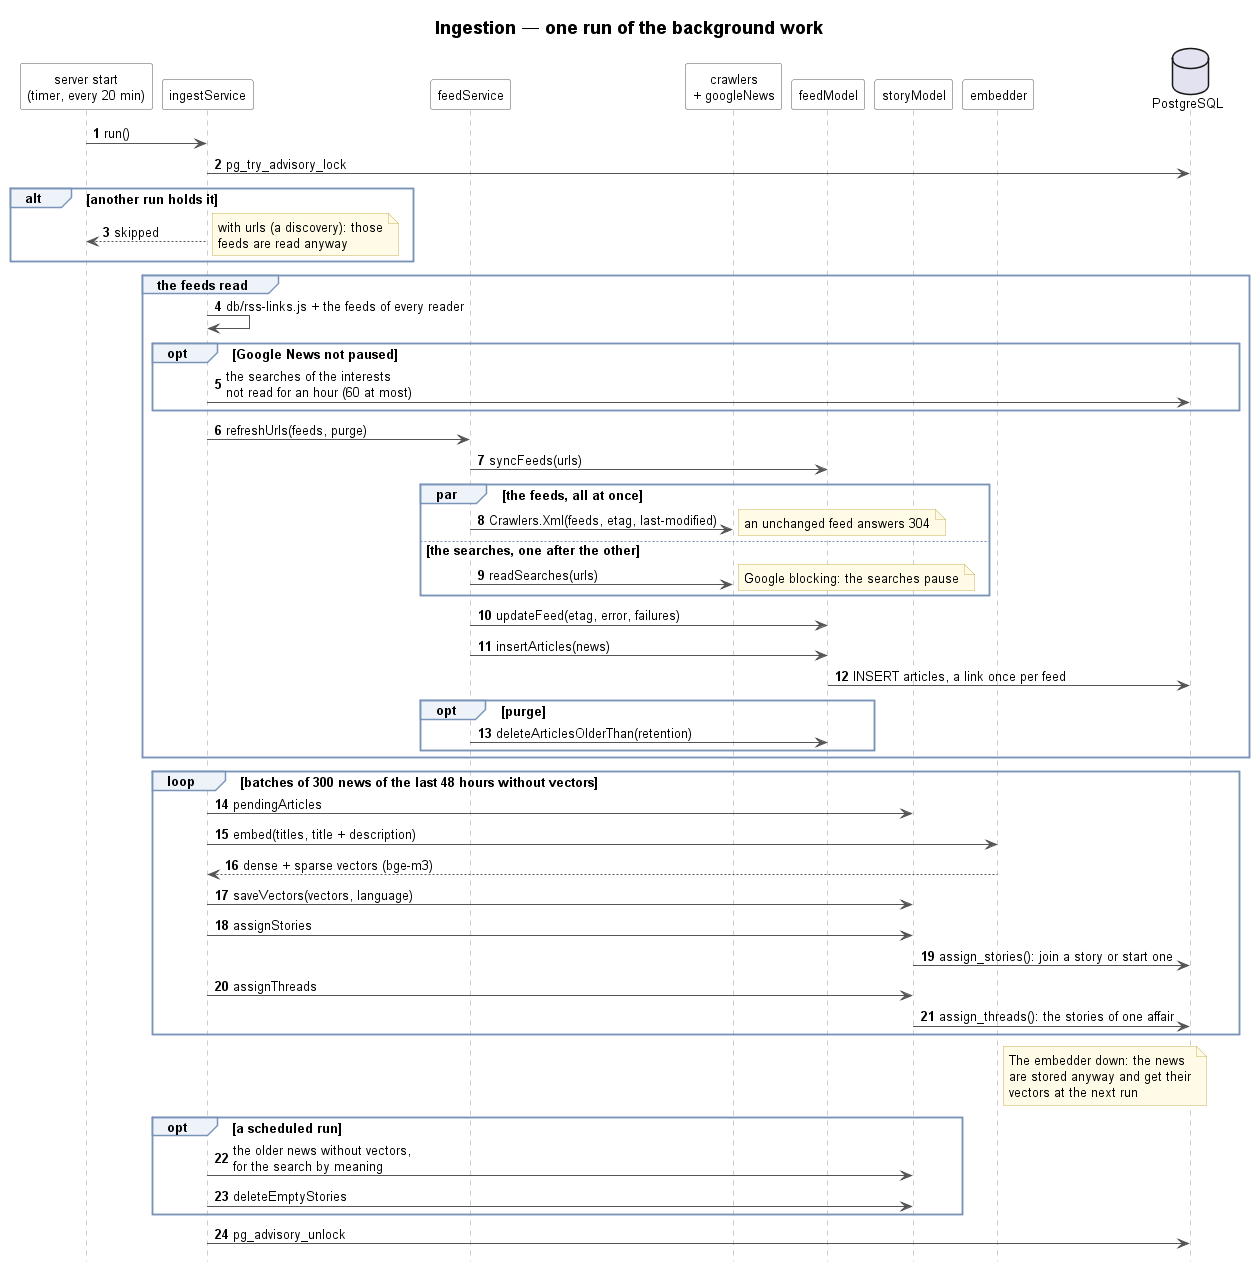
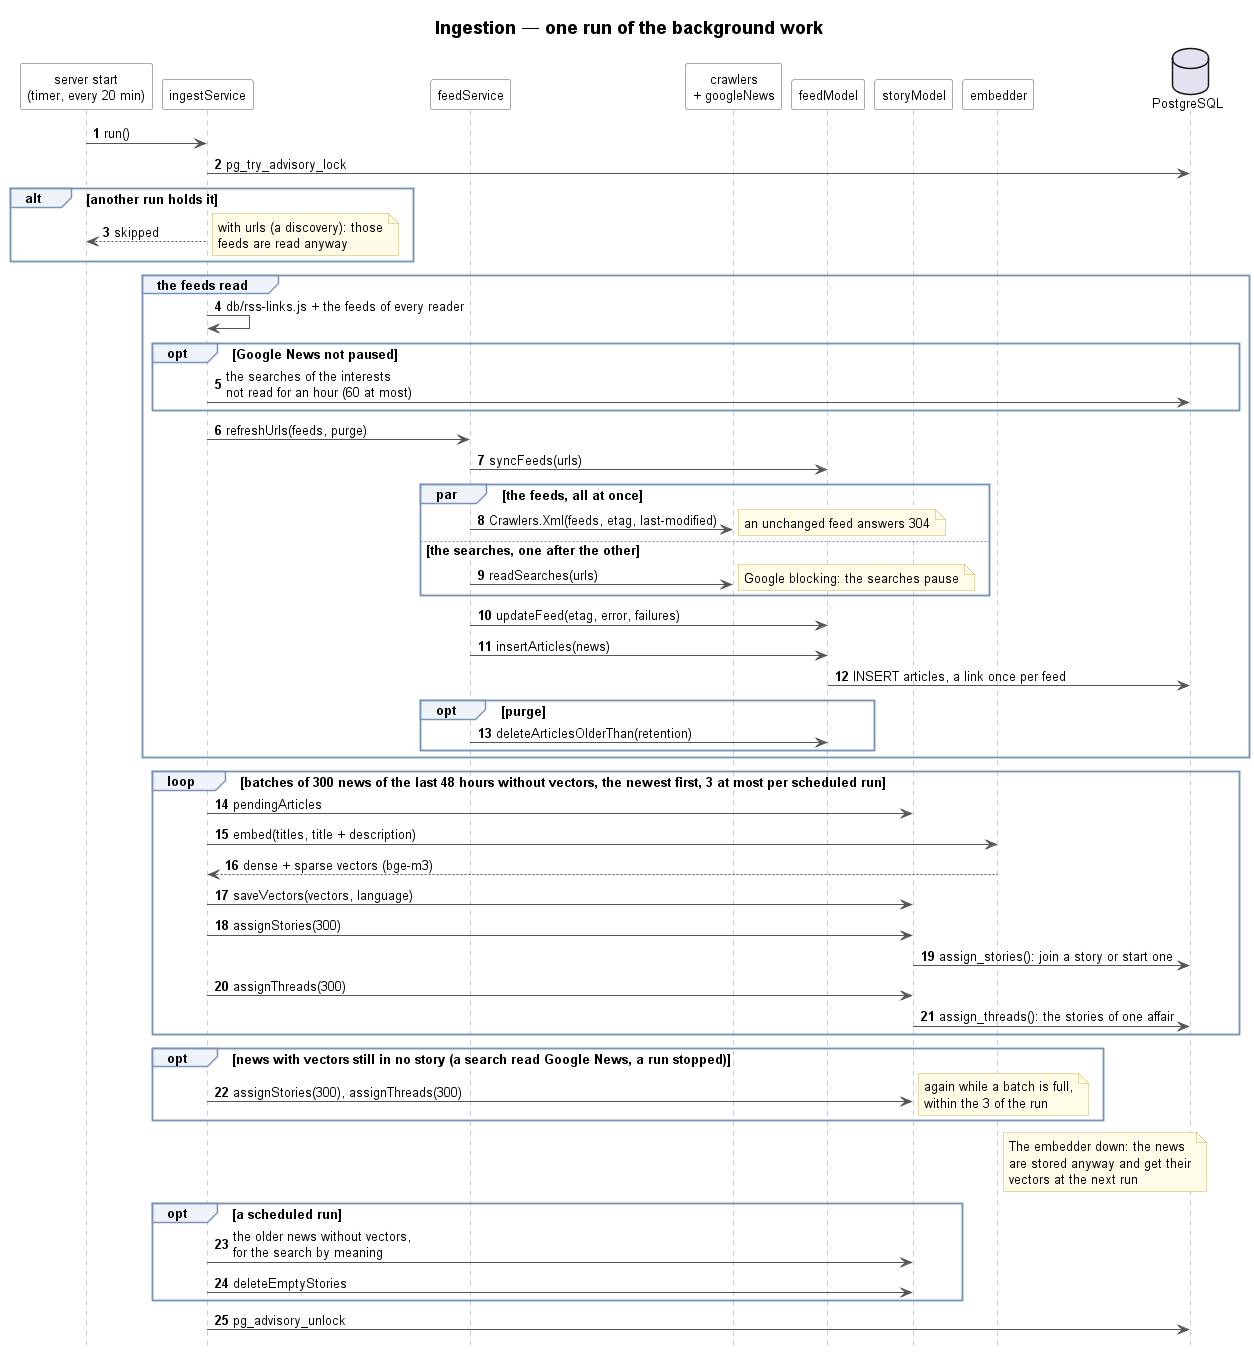
Group the news in batches, a few per run
assign_stories and assign_threads take at most a number of news or
stories per call, each call a transaction of its own. The ingestion
groups 300 at a time and a scheduled run stops after INGEST_BATCHES (3),
the rest left to the next run, which reads the feeds first. The 12 000
news of the first read of the directory, grouped in one call, held the
ingestion 2 h 10 with no feed read and nothing saved before the end.

The thread tests leave out the real stories waiting for a thread: they
judged them all, and every other test waited on their transaction.

diff --git a/services/ingest-service.js b/services/ingest-service.js
@@ -32,6 +32,12 @@ const MAX_EMBEDDED_PER_RUN = Number(process.env.INGEST_MAX_EMBEDDED) || 300;
 // retention; they join no story. After the news of the window, and this many batches at most per
 // run: on a processor a batch of 300 is a few minutes
 const OLDER_BATCHES_PER_RUN = Number(process.env.INGEST_OLDER_BATCHES) || 1;
+// Batches of the window embedded and grouped by a scheduled run, the newest news first: the rest waits
+// for the next run, which reads the feeds before. A batch is grouped in one transaction of its own
+// (assign_stories, assign_threads): the 12 000 news of the first read of the directory, grouped at
+// once, held the lock 2 h 10 with no feed read meanwhile and nothing saved before the end. A batch of
+// 300 is grouped in about 4 minutes (75 news a minute with 30 000 news in the window)
+const BATCHES_PER_RUN = Number(process.env.INGEST_BATCHES) || 3;
 const DESCRIPTION_CHARS = 400;          // the start of the description read with the title
 const STORY_THRESHOLD = 0.70;           // dense + sparse of the titles, see assign_stories (db/add_briefing.sql)
 const STORY_SPARSE_WEIGHT = 1;
@@ -90,16 +96,17 @@ const embedPending = async (urls = null, since = new Date(Date.now() - WINDOW_HO
 };
 
 // the stories grouped since their thread was judged join the threads of their affair
-export const threadPending = () => StoryModel.assignThreads({
+export const threadPending = (maxStories = null) => StoryModel.assignThreads({
     threshold: THREAD_THRESHOLD,
     sameMediumMargin: THREAD_SAME_MEDIUM_MARGIN,
     mergeThreshold: THREAD_MERGE_THRESHOLD,
     activeDays: THREAD_ACTIVE_DAYS,
+    maxStories,
 });
 
 // the news with vectors and no story join the stories of the window, or start new ones: done in the
 // database, where the vectors are (see assign_stories in db/add_briefing.sql)
-const groupPending = () => StoryModel.assignStories({
+const groupPending = (maxNews) => StoryModel.assignStories({
     since: new Date(Date.now() - WINDOW_HOURS * 3600e3),
     threshold: STORY_THRESHOLD,
     sparseWeight: STORY_SPARSE_WEIGHT,
@@ -107,6 +114,7 @@ const groupPending = () => StoryModel.assignStories({
     textThreshold: STORY_TEXT_THRESHOLD,
     idleDecay: STORY_IDLE_DECAY,
     idleGrace: STORY_IDLE_GRACE,
+    maxNews,
 });
 
 // Two runs must never overlap: the server runs one every few minutes and "pnpm run ingest" can run
@@ -182,9 +190,13 @@ export const IngestService = {
             let embedded = 0;
             let older = 0;
             let grouping = {grouped: 0, created: 0, threaded: 0, merged: 0};
+            let batches = 0;
+            let lastGrouped = 0;
             const group = async () => {
-                const done = await groupPending();
-                const threads = await threadPending();
+                const done = await groupPending(MAX_EMBEDDED_PER_RUN);
+                const threads = await threadPending(MAX_EMBEDDED_PER_RUN);
+                batches += 1;
+                lastGrouped = done.grouped;
                 grouping = {
                     grouped: grouping.grouped + done.grouped, created: grouping.created + done.created,
                     threaded: grouping.threaded + threads.touched, merged: grouping.merged + threads.merged,
@@ -195,14 +207,16 @@ export const IngestService = {
                 // grouped at once so the briefing can use it without waiting for the others. A run of
                 // some feeds (those just found for a profile) embeds all of theirs, and only theirs:
                 // a new reader had 300 of 564 and waited the next run for the rest, and the backlog
-                // of the others is the work of the scheduled run
+                // of the others is the work of the scheduled run, BATCHES_PER_RUN at a time
                 for (let batch = await embedPending(urls); batch > 0; batch = await embedPending(urls)) {
                     embedded += batch;
                     await group();
-                    if (batch < MAX_EMBEDDED_PER_RUN) break;
+                    if (batch < MAX_EMBEDDED_PER_RUN || (urls === null && batches >= BATCHES_PER_RUN)) break;
                 }
-                // news embedded by a run that stopped before grouping them
+                // news embedded and in no story: by a run that stopped before grouping them, by a search
+                // reading Google News, or more than a batch waiting. As many batches as a run allows
                 if (embedded === 0) await group();
+                while (lastGrouped === MAX_EMBEDDED_PER_RUN && batches < BATCHES_PER_RUN) await group();
                 // then the older news, for the search only (the grouping reads the window)
                 if (urls === null) {
                     const retention = new Date(Date.now() - RETENTION_DAYS * 24 * 3600e3);

diff --git a/models/story-model.js b/models/story-model.js
@@ -52,20 +52,21 @@ export const StoryModel = {
     },
 
     // the news embedded and in no story join the stories of the window, in the database
-    // (assign_stories): {grouped, created}
-    assignStories: async ({since, threshold, sparseWeight, sameMediumMargin, textThreshold, idleDecay, idleGrace}) => {
+    // (assign_stories), the newest maxNews of them (all when null): {grouped, created}
+    assignStories: async ({since, threshold, sparseWeight, sameMediumMargin, textThreshold, idleDecay, idleGrace, maxNews = null}) => {
         const [result] = await prisma.$queryRawUnsafe(
-            'SELECT grouped, created FROM public.assign_stories($1::timestamptz, $2::real, $3::real, $4::real, $5::real, $6::real, $7::real)',
-            since, threshold, sparseWeight, sameMediumMargin, textThreshold, idleDecay, idleGrace);
+            'SELECT grouped, created FROM public.assign_stories($1::timestamptz, $2::real, $3::real, $4::real, $5::real, $6::real, $7::real, $8::int)',
+            since, threshold, sparseWeight, sameMediumMargin, textThreshold, idleDecay, idleGrace, maxNews);
         return result;
     },
 
     // the stories grouped since their thread was judged join the threads of their affair, in the
-    // database (assign_threads, db/add_threads.sql): {touched, created, merged}
-    assignThreads: async ({threshold, sameMediumMargin, mergeThreshold, activeDays}) => {
+    // database (assign_threads, db/add_threads.sql), the oldest maxStories of them (all when null):
+    // {touched, created, merged}
+    assignThreads: async ({threshold, sameMediumMargin, mergeThreshold, activeDays, maxStories = null}) => {
         const [result] = await prisma.$queryRawUnsafe(
-            'SELECT touched, created, merged FROM public.assign_threads($1::real, $2::real, $3::real, $4::int)',
-            threshold, sameMediumMargin, mergeThreshold, activeDays);
+            'SELECT touched, created, merged FROM public.assign_threads($1::real, $2::real, $3::real, $4::int, $5::int)',
+            threshold, sameMediumMargin, mergeThreshold, activeDays, maxStories);
         return result;
     },
 

diff --git a/tests/briefing/test.threads.js b/tests/briefing/test.threads.js
@@ -41,6 +41,9 @@ const inTransaction = async (test) => {
     const client = await pool.connect();
     try {
         await client.query('BEGIN');
+        // the stories of the real news waiting for their thread are left out, in the transaction only:
+        // judged with the test ones, thousands of them after a first read took minutes
+        await client.query("UPDATE stories SET threaded_at = now() WHERE grouped_at > COALESCE(threaded_at, '-infinity')");
         const {rows: [feed]} = await client.query("INSERT INTO feeds (url) VALUES ('https://test.invalid/feed') RETURNING id");
         await test(client, feed.id);
     } finally {
@@ -82,6 +85,19 @@ const assign = async (client) => (await client.query('SELECT * FROM public.assig
 
         expect(await threadOf(client, result)).toBe(await threadOf(client, preview));
         expect(await threadOf(client, other)).not.toBe(await threadOf(client, preview));
+    }));
+
+    it('should judge only the oldest stories asked for, and leave the others to the next call', () => inTransaction(async (client, feed) => {
+        const first = await story(client, feed, {hours: 1, text: dense(1, 0)});
+        const second = await story(client, feed, {hours: 2, text: dense(0, 1)});
+
+        await client.query('SELECT * FROM public.assign_threads($1, $2, $3, $4, $5)',
+            [THRESHOLD, SAME_MEDIUM_MARGIN, MERGE_THRESHOLD, ACTIVE_DAYS, 1]);
+        expect(await threadOf(client, first)).not.toBeNull();
+        expect(await threadOf(client, second)).toBeNull();
+
+        await assign(client);
+        expect(await threadOf(client, second)).not.toBeNull();
     }));
 
     it('should keep apart the series of one medium unless almost the same', () => inTransaction(async (client, feed) => {

diff --git a/tests/briefing/test.stories.js b/tests/briefing/test.stories.js
@@ -83,6 +83,22 @@ const assign = async (client, sparseWeight = 1) => (await client.query('SELECT *
         expect(await storyOf(client, c)).not.toBe(await storyOf(client, a));
     }));
 
+    it('should group only the newest news asked for, and leave the others to the next call', () => inTransaction(async (client, feed) => {
+        const oldest = await news(client, feed, {minute: 1, title: dense(1, 0)});
+        const newer = await news(client, feed, {minute: 2, title: dense(0, 1)});
+        const newest = await news(client, feed, {minute: 3, title: dense(1, 1, 1)});
+
+        const {rows: [first]} = await client.query('SELECT * FROM public.assign_stories($1, $2, $3, $4, $5, $6, $7, $8)',
+            [SINCE, THRESHOLD, 1, SAME_MEDIUM_MARGIN, TEXT_THRESHOLD, IDLE_DECAY, IDLE_GRACE, 2]);
+        expect(first.grouped).toBe(2);
+        expect(await storyOf(client, newest)).not.toBeNull();
+        expect(await storyOf(client, newer)).not.toBeNull();
+        expect(await storyOf(client, oldest)).toBeNull();
+
+        expect((await assign(client)).grouped).toBe(1);
+        expect(await storyOf(client, oldest)).not.toBeNull();
+    }));
+
     it('should join a story on the average of its members, not on one of them', () => inTransaction(async (client, feed) => {
         const {rows: [{id: story}]} = await client.query("INSERT INTO stories (lang) VALUES ('en') RETURNING id");
         await news(client, feed, {title: dense(1, 0, 0), story});

diff --git a/README.md b/README.md
@@ -174,13 +174,17 @@ pnpm run ingest          # one run now, by hand (a run of the server at the same
 pnpm run embedder        # starts the embedder on this machine
 ```
 
-The news of the last 48 h are embedded and grouped first. The older news kept (`FEED_RETENTION_DAYS`)
+The news of the last 48 h are embedded and grouped first, the newest first, `INGEST_BATCHES` batches of
+`INGEST_MAX_EMBEDDED` per run: each batch is grouped in a transaction of its own, and a big backlog (the
+first read of many new feeds) waits for the next runs, which read the feeds before. Grouped in one call,
+the 12 000 news of the first read of the directory held the ingestion 2 h 10 with no feed read meanwhile,
+and nothing saved before the end. The older news kept (`FEED_RETENTION_DAYS`)
 that have no vectors yet, because the embedder was down longer than the window or a feed came with
 old news, are embedded after them for the search by meaning, `INGEST_OLDER_BATCHES` batches of
 `INGEST_MAX_EMBEDDED` per run, and join no story. To catch up a long backlog at once:
 
 ```bash
-INGEST_OLDER_BATCHES=200 pnpm run ingest
+INGEST_BATCHES=200 INGEST_OLDER_BATCHES=200 pnpm run ingest
 ```
 
 The searches of Google News of the interests are read by the same runs, less often (see **Google News**
@@ -193,6 +197,7 @@ Optional variables in `.env`:
 | `INGEST_IN_SERVER` | on | `false` leaves the background work to `pnpm run ingest`, run by a scheduler of the system |
 | `INGEST_INTERVAL_MINUTES` | 20 | the time between two runs |
 | `INGEST_MAX_EMBEDDED` | 300 | news embedded, saved and grouped at a time. On a busy processor 1500 news at once took over an hour, all lost if the process stopped before saving them |
+| `INGEST_BATCHES` | 3 | batches of the window embedded and grouped per run, about 4 minutes each: the rest waits for the next run |
 | `INGEST_OLDER_BATCHES` | 1 | batches of older news without vectors embedded per run, for the search by meaning |
 | `FEED_RETENTION_DAYS` | 30 | Articles older than this are deleted |
 | `RSS_BRIDGE_URL` | _(none)_ | Address of the RSS-Bridge, step 4 of the sources of a user below. Empty: the sites without a feed are simply out of reach |
